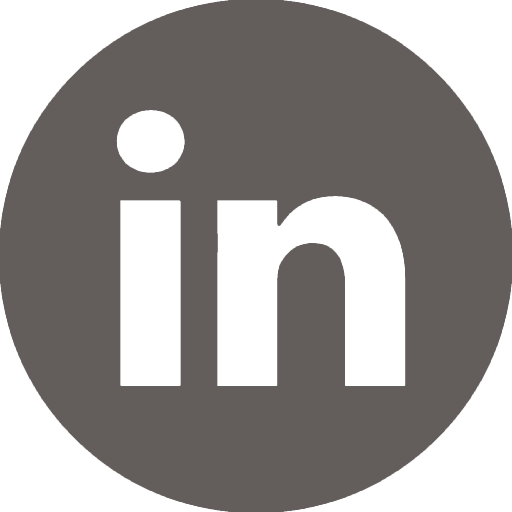
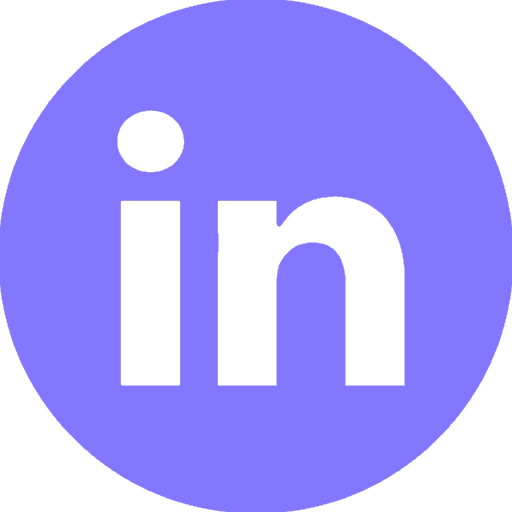
Contact Section is done!!!

diff --git a/src/Sections/ContactSection/ContactSection.tsx b/src/Sections/ContactSection/ContactSection.tsx
@@ -1,0 +1,24 @@
+import EmailIcon from "../../assets/email.png";
+import LinkedInIcon from "../../assets/linkedin2.png";
+import "./contact.css";
+export default function ContactSection() {
+    return(
+        <section id={"contact"}>
+            <p className="section__text__p1 ">Let's Get in Touch</p>
+            <h1 className="title font-semibold">CONTACT ME</h1>
+
+            <div className="contact-info-upper-container drop-shadow-lg hover:scale-105 transition-all">
+                <div className="contact-info-container">
+                    <img src={EmailIcon} alt="email icon" className="icon contact-icon email-icon"/>
+                    <p className="contact-text"><a href="mailto:christpherlam365@gmail.com"
+                                                   className="hello">christpherlam365@gmail.com</a></p>
+                </div>
+                <div className="contact-info-container">
+                    <img src={LinkedInIcon} alt="LinkedIn icon" className="icon contact-icon email-icon"/>
+                    <p className="contact-text"><a href="https://www.linkedin.com/in/chrislam365"
+                                                   className="hello">LinkedIn</a></p>
+                </div>
+            </div>
+        </section>
+    );
+}

diff --git a/src/Sections/ProjectsSection/ProjectThree.tsx b/src/Sections/ProjectsSection/ProjectThree.tsx
@@ -18,10 +18,10 @@ export default function ProjectThree() {
             </div>
             <div className="flex flex-col ml-8 projectDescription">
                 <h1 className="text-black font-bold">Shoulder Press Repetition Counting System</h1>
-                <p className="text-black">Used deep learning frameworks MediaPipe and OpenCV to accurately detect and track shoulder press exercises.
+                <p className="text-gray-500">Used deep learning frameworks MediaPipe and OpenCV to accurately detect and track shoulder press exercises.
                 Using post estimation on 6 keypoint detections, this program accurately identifies the start and end of each shoulder press rep.</p>
                 {/* eslint-disable-next-line jsx-a11y/anchor-has-content */}
-                <p className={"text-gray-400 cursor-pointer hover:text-[#8477ff] transition-all underline demoLinks"} onClick={handleGithubProject3Link}>Github Link</p>
+                <p className={"text-[#8477ff] cursor-pointer hover:text-[#8459FF] transition-all underline demoLinks"} onClick={handleGithubProject3Link}>Github Link</p>
 
                 <div className="flex mt-3 scale-90 flex-wrap projectFrameworks">
                     <PythonCL/>

diff --git a/src/Sections/ProjectsSection/ProjectTwo.tsx b/src/Sections/ProjectsSection/ProjectTwo.tsx
@@ -18,10 +18,10 @@ export default function ProjectTwo() {
             </div>
             <div className="flex flex-col ml-8 projectDescription">
                 <h1 className="text-black font-bold">YoloV5 AI Object Detection & Recognition</h1>
-                <p className="text-black">Using Ultralytic's YoloV5 algorithm, I trained and analyzed 20 different possible
+                <p className="text-gray-500">Using Ultralytic's YoloV5 algorithm, I trained and analyzed 20 different possible
                 objects for recognition, where model evaluations contain an average of 79% confidence rate.</p>
                 {/* eslint-disable-next-line jsx-a11y/anchor-has-content */}
-                <p className={"text-gray-400 cursor-pointer hover:text-[#8477ff] transition-all underline demoLinks"} onClick={handleGithubProjectLink}>Github Link</p>
+                <p className={"text-[#8477ff] cursor-pointer hover:text-[#8459FF] transition-all underline demoLinks"} onClick={handleGithubProjectLink}>Github Link</p>
 
                 <div className="flex mt-3 scale-90 flex-wrap projectFrameworks">
                     <PythonCL/>

diff --git a/src/Sections/ProjectsSection/ProjectOne.tsx b/src/Sections/ProjectsSection/ProjectOne.tsx
@@ -19,10 +19,10 @@ export default function ProjectOne(){
             </div>
             <div className="flex flex-col ml-8 projectDescription">
                 <h1 className="text-black font-bold">Mass General Brigham Map Kiosk</h1>
-                <p className="text-black">With a team of 11, we applied the agile scrum methodology to create a
+                <p className="text-gray-500">With a team of 11, we applied the agile scrum methodology to create a
                     kiosk app to handle pathfinding and service requests. I led the frontend team as assistant lead
                     software developer spearheading version control and designing UI mockups through Figma.</p>
-                <p className={"text-gray-400 cursor-pointer hover:text-[#8477ff] transition-all underline demoLinks"}
+                <p className={"text-[#8477ff] cursor-pointer hover:text-[#8459FF] transition-all underline demoLinks"}
                    onClick={handleYoutubeProjectLink}>Demo Link</p>
                 <div className="flex mt-3 scale-90 flex-wrap projectFrameworks">
                     <ReactJSCL/>

diff --git a/src/Sections/ContactSection/contact.css b/src/Sections/ContactSection/contact.css
@@ -1,0 +1,50 @@
+#contact {
+    display: flex;
+    justify-content: center;
+    flex-direction: column;
+    height: 70vh;
+    background: transparent;
+}
+
+.contact-info-upper-container {
+    display: flex;
+    justify-content: center;
+    border-radius: 2rem;
+    border-color: black;
+    margin: 2rem auto;
+    padding: 0.5rem;
+    background: white;
+
+}
+
+.contact-info-container {
+    display: flex;
+    align-items: center;
+    justify-content: center;
+    gap: 0.5rem;
+    margin: 1rem;
+    background-color: white;
+}
+
+.contact-icon {
+    background-color: white;
+    cursor: default;
+}
+
+.contact-info-container p {
+    font-size: larger;
+}
+
+.email-icon {
+    height: 2.5rem;
+}
+
+.contact-text {
+    text-decoration-color: black;
+    background: transparent;
+}
+
+.hello {
+    color: black;
+    background: transparent;
+}

diff --git a/src/Sections/AboutSection/AboutSection.tsx b/src/Sections/AboutSection/AboutSection.tsx
@@ -1,13 +1,10 @@
-import ArrowIcon from "../../assets/arrow.png";
+
 import '../../index.css';
 import '../../mediaqueries.css';
 import "../AboutSection/about.css";
 import AboutDetailsContainer from "./AboutDetailsContainer";
 
 export default function AboutSection() {
-    function handleArrowToSkillsClick() {
-        window.location.href = '#skills';
-    }
 
     return (
         <section id="about" className={'z-50 relative '}>
@@ -18,9 +15,7 @@ export default function AboutSection() {
                 <br/>
                 <br/>
 
-            <img src={ArrowIcon} alt={"Arrow"}
-                 className={" right-[-7.5rem] bottom-[-0.5rem] h-[2rem] cursor-pointer arrow"}
-                 onClick={handleArrowToSkillsClick}/>
+
         </section>
     );
 }

diff --git a/src/Sections/ProjectsSection/ProjectSection.tsx b/src/Sections/ProjectsSection/ProjectSection.tsx
@@ -1,9 +1,11 @@
 import ProjectOne from "./ProjectOne";
 import ProjectTwo from "./ProjectTwo";
 import ProjectThree from "./ProjectThree";
+
 export default function ProjectSection() {
+
     return(
-        <section id={"projects"}>
+        <section id={"projects"} className={""}>
             <p className="section__text__p1">Browse My Recent</p>
             <h1 className="title font-bold">PROJECTS</h1>
 
@@ -12,7 +14,6 @@ export default function ProjectSection() {
                 <ProjectTwo/>
                 <ProjectThree/>
             </div>
-
 
         </section>
     );

diff --git a/src/App.tsx b/src/App.tsx
@@ -6,6 +6,7 @@ import ProfileSection from "../src/Sections/ProfileSection/Profile";
 import AboutSection from "./Sections/AboutSection/AboutSection";
 import SkillsSection from "./Sections/SkillsSection/SkillsSection";
 import ProjectSection from "./Sections/ProjectsSection/ProjectSection";
+import ContactSection from "./Sections/ContactSection/ContactSection";
 
 function App() {
 
@@ -24,6 +25,7 @@ function App() {
             <AboutSection/>
             <SkillsSection/>
             <ProjectSection/>
+            <ContactSection/>
         </body>
 
     );

diff --git a/src/index.css b/src/index.css
@@ -105,8 +105,8 @@ a:hover {
 
 /* section global css */
 section {
-    height: 100vh;
-    margin: 0 10rem;
+
+    margin: 0 10rem 20rem;
     box-sizing: border-box;
     min-height: fit-content;
 }
